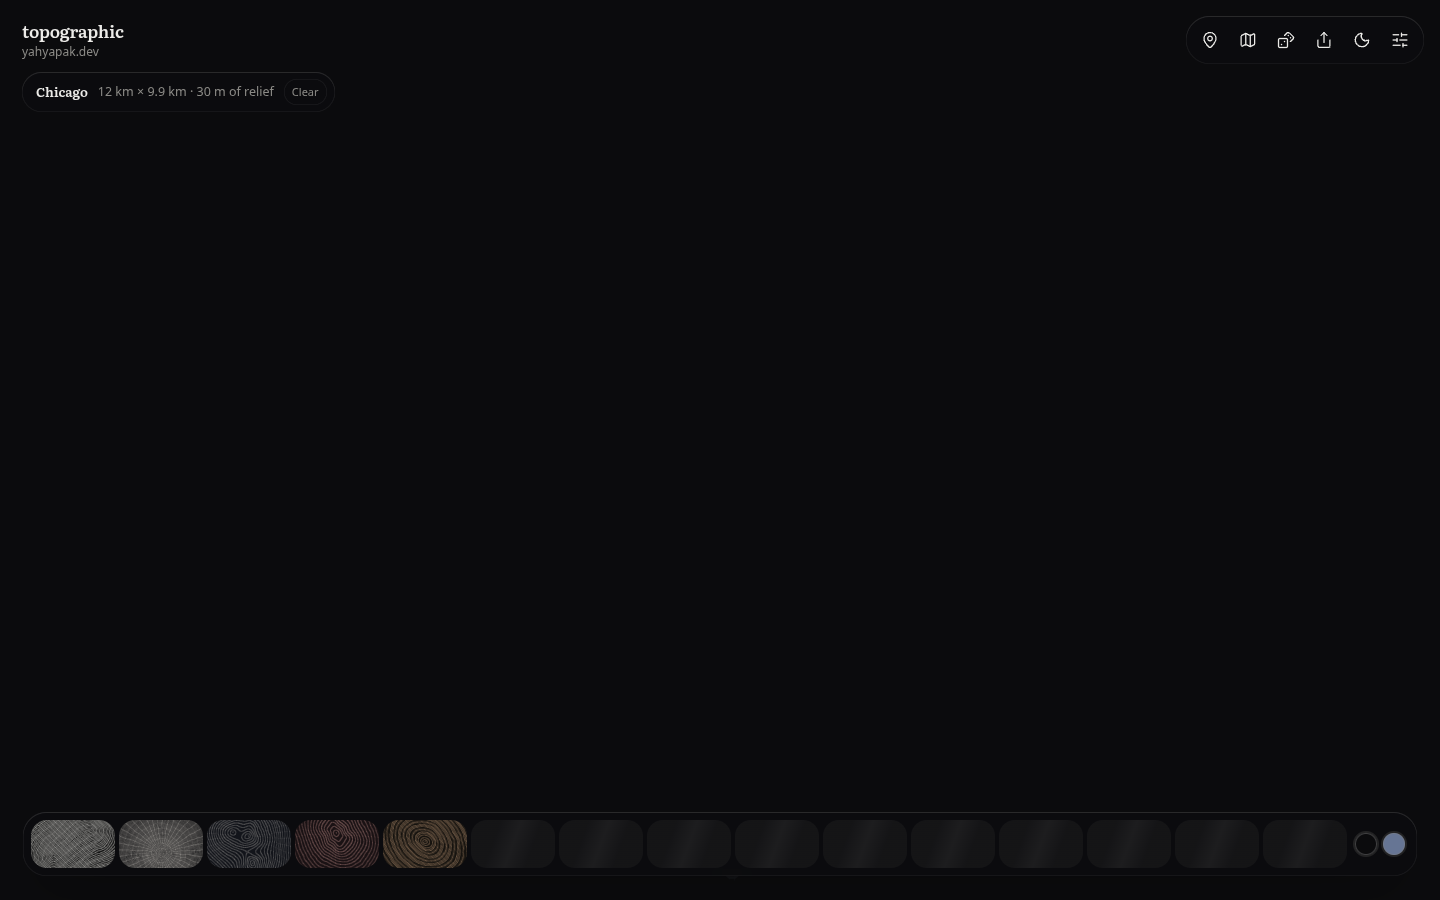
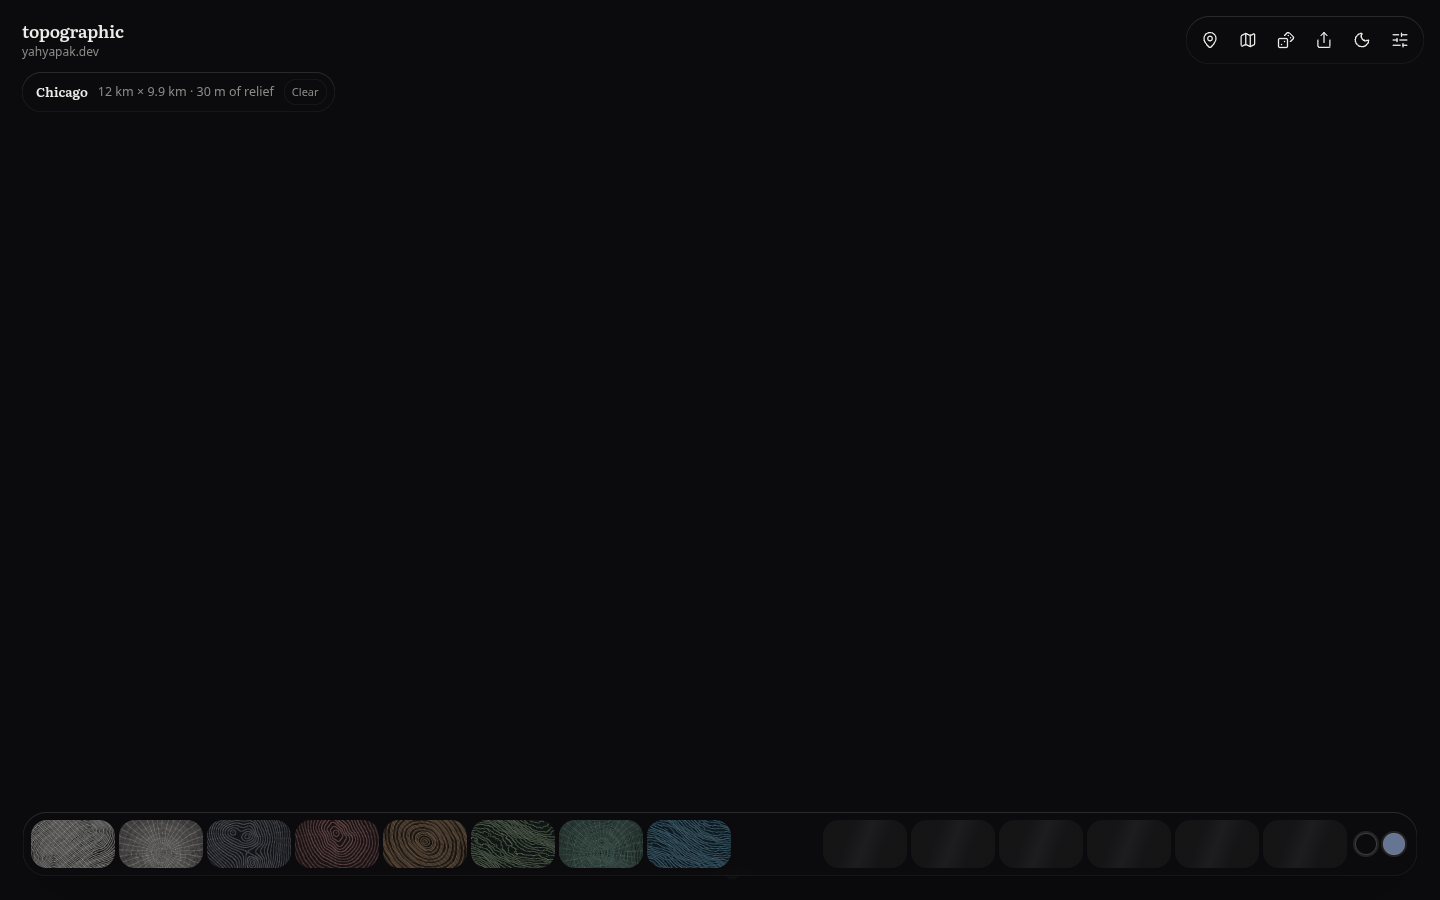
refresh the region shots on the rounded crests
- the pictures match the dock after the frame readout moved beside the controls
- the bench note records the spread seen across warm runs, 9 to 46 ms

Changed region(s): [[0.3125, 0.9022, 0.5312, 0.9644]]

diff --git a/docs/prototypes/region/README.md b/docs/prototypes/region/README.md
@@ -65,8 +65,8 @@ The numeric work, timed by `pipeline.test.ts` on this machine, warm:
 | Case | Time |
 |---|---|
 | 9 tiles, 768² source, 256 grid | 10 to 14 ms |
-| 36 tiles, 1536² source, 256 grid | about 9 ms |
-| 2048² source, 512 grid | about 37 ms |
+| 36 tiles, 1536² source, 256 grid | 9 to 11 ms |
+| 2048² source, 512 grid | 37 to 46 ms |
 
 Ten percent off those times is about a millisecond. An order of magnitude would land around 1 to 4 ms. The tile download is the wait, so the prototype stays in JavaScript. There is no Wasm build.
 
